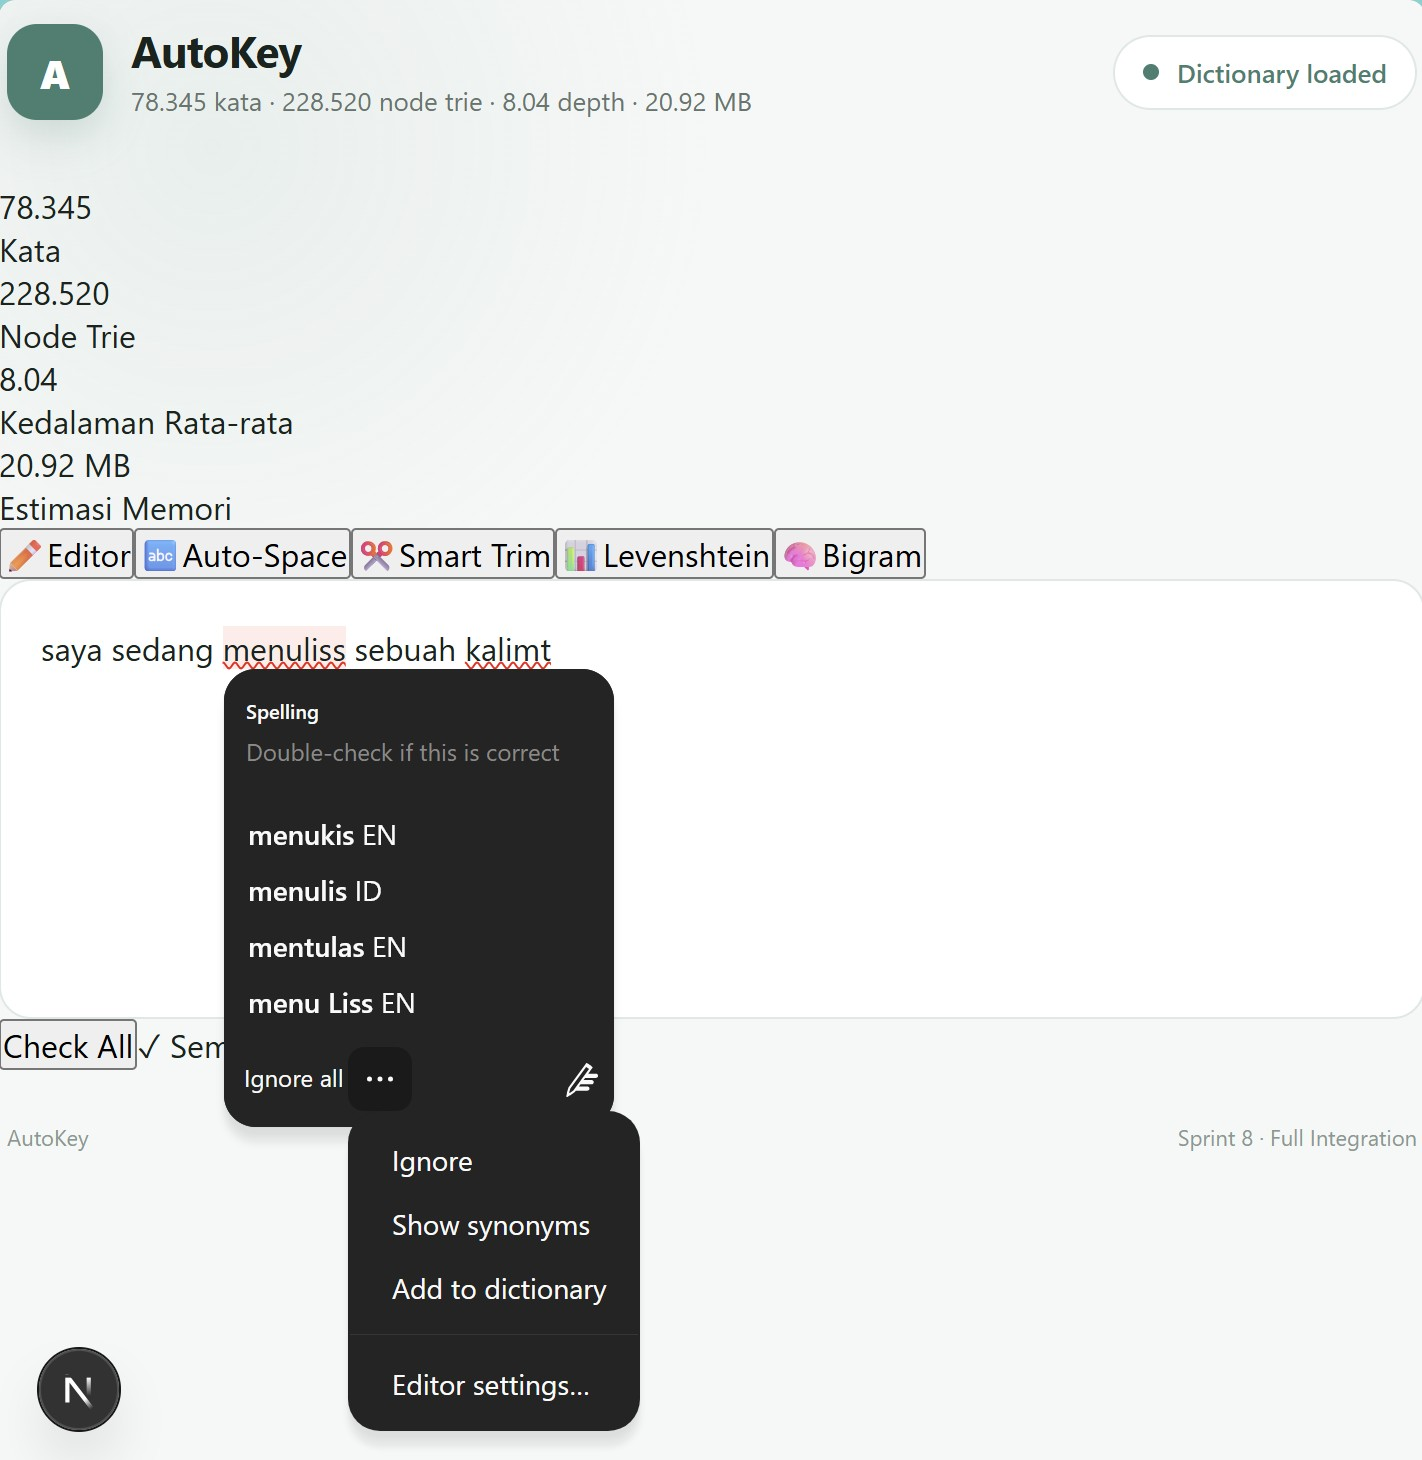
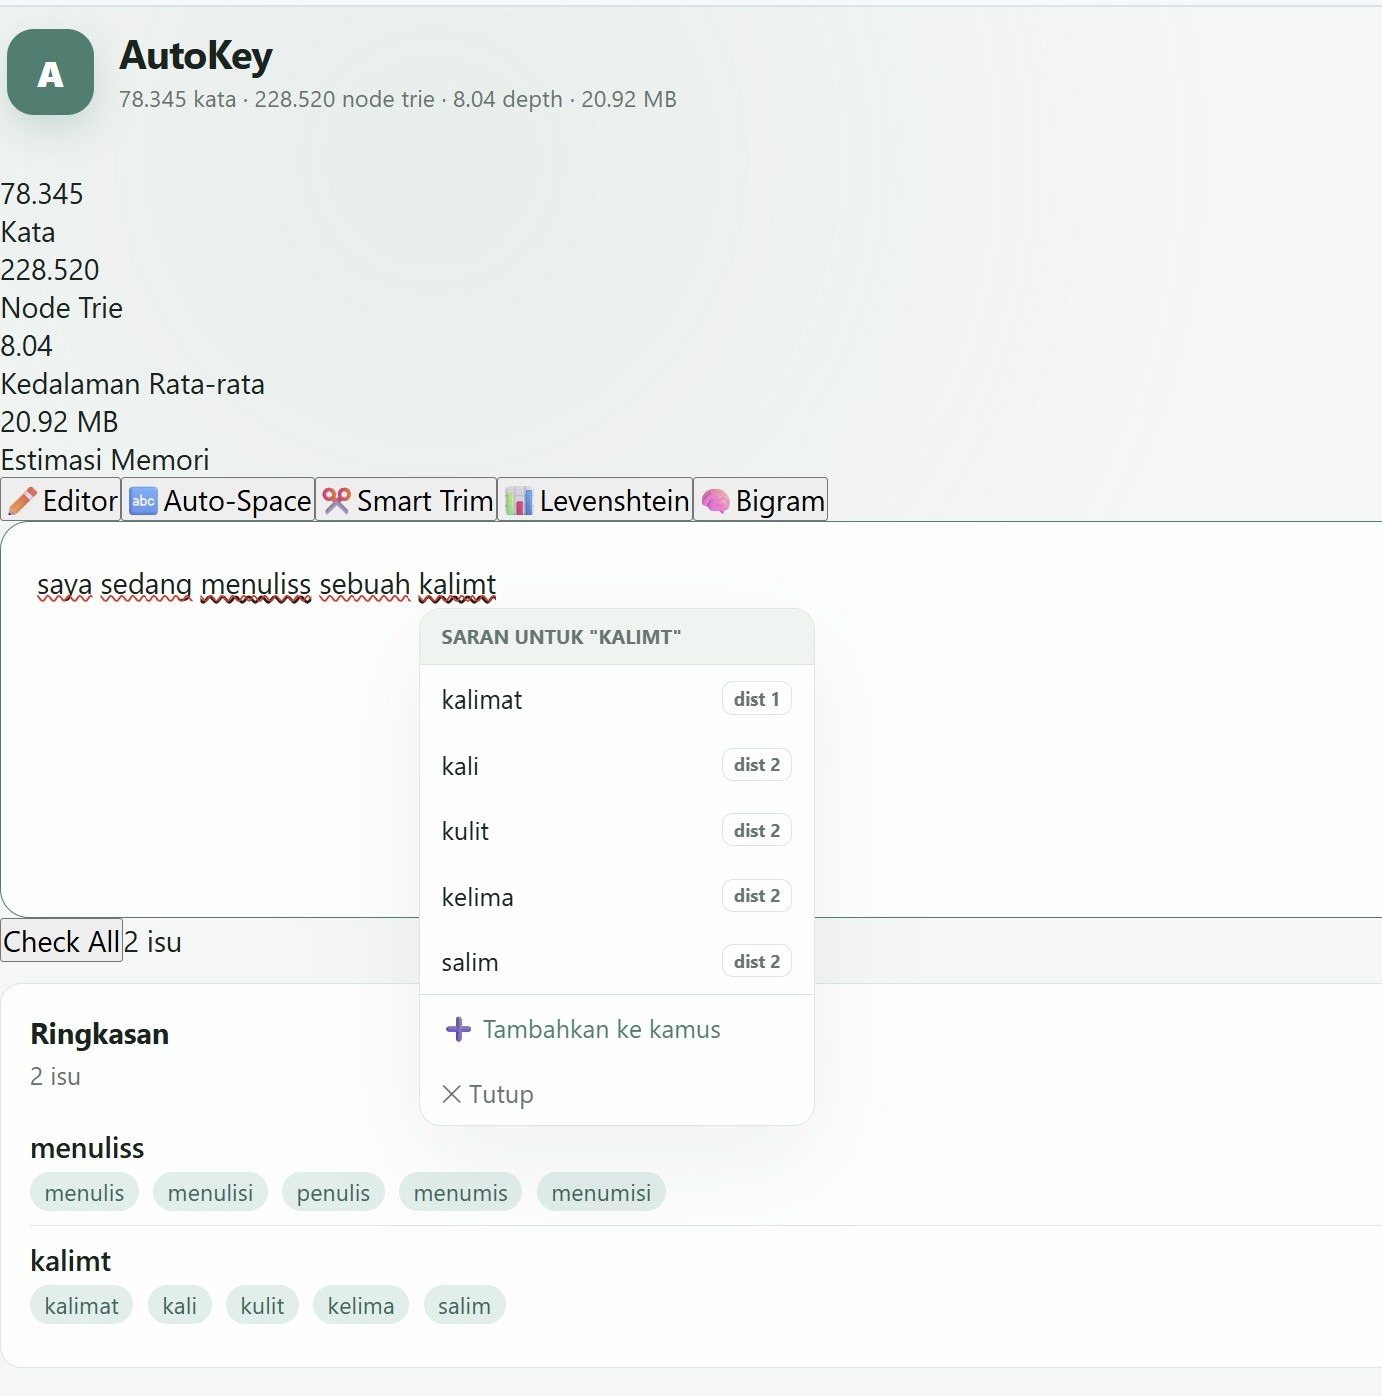
docs: finalize README with video demo link and update screenshots

diff --git a/README.md b/README.md
@@ -502,8 +502,7 @@ Semua test dijalankan dengan kamus sementara (`tmp_path` fixture) untuk isolasi 
 ---
 
 ## Tautan Video Demo
-
-**Link:** _TBD_
+**Link:** https://drive.google.com/file/d/1Nhn3umLPM1vphHQ2kiodNQcqyYzZ9DNX/view?usp=sharing 
 
 ---
 
